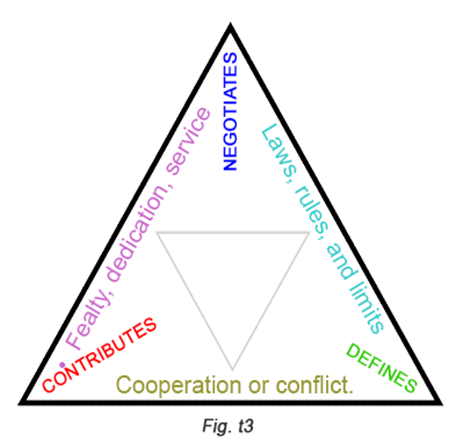
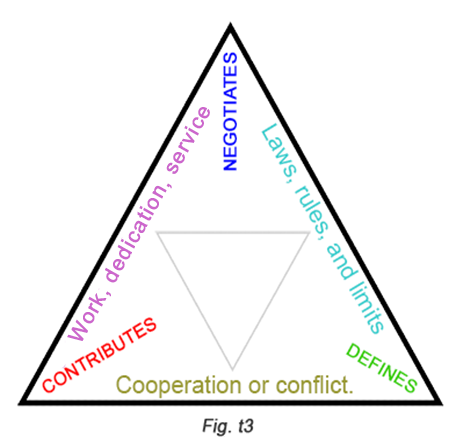
mv fealty to work, added 7-times map

Changed region(s): [[0.1197, 0.409, 0.359, 0.7888], [0.359, 0.2337, 0.4487, 0.409], [0.1197, 0.818, 0.1496, 0.8472]]

diff --git a/docs/_layouts/default.html b/docs/_layouts/default.html
@@ -36,7 +36,7 @@
           <li><a target="_blank" href="https://mega.nz/#F!NiBwjQiA!VYOo9TlGW9u060-V1LQ0_w">Download <strong>ePub</strong></a></li>
           <li><a target="_blank" href="https://mega.nz/#F!NiBwjQiA!VYOo9TlGW9u060-V1LQ0_w">Download <strong>HTML</strong></a></li>
         </ul>
-              current version: Thu 31 Oct 2019 01:21:01 AM EDT v.1.2.9
+              current version: Thu 31 Oct 2019 12:05:06 PM EDT v.1.3.0
 
 <!--
         ZIP and TAR downloads include 20+ megs of webpages, scripts, images and other material. 

diff --git a/Latest/THOLONIA_THE_BOOK.md b/Latest/THOLONIA_THE_BOOK.md
@@ -38,7 +38,7 @@
 
 
 
-DRAFT - Version Beta {!Thu 31 Oct 2019 01:21:01 AM EDT v.1.2.9}
+DRAFT - Version Beta {!Thu 31 Oct 2019 12:05:06 PM EDT v.1.3.0}
 
 Tholonia: The Existential Mechanics of Awareness
 Copyright © 2019 Duncan Stroud
@@ -1392,7 +1392,7 @@ Tholograms
 
 ### Geometry II
 
-<img src="../Images/056-NDCpoints.png" style="float:right;width:2.54583in;height:2.34167in" />Let's take these three relationship attributes of **C**ontributes, **N**egotiates, and **D**efines (which we'll shorten to just C, N, and D) and map them to the three points of a trigram.
+<img src="../Images/056-NDCpoints.png" style="float:right;width:2.54583in;height:2.34167in" />Let's take these three relationship attributes of **C**ontributes, **N**egotiates, and **D**efines (which we'll shorten to just C, N, and D) and map them to the three points of a trigram.  One point to add here is that the word *negotiate* is synonymous with *achieving a balance*.  We could even replace the word *negotiate* with *balance* but *negotiate* implies a process rather that a state, plus, the word *balance* has a lot of baggage in today’s culture that we’d prefer not to inherit, so *negotiate* is a better word.
 
 How do we know what attribute maps to what point? Further on we will show a more complete argument, but for now we can simply say if we have a parent, a child and a peer, as we do in both the holarchy and thologram, the parent would be the 1<sup>st</sup> point, the child the 2<sup>nd</sup> point, and the peer the 3<sup>rd</sup> point, as shown in the figure on the right.
 
@@ -1432,7 +1432,7 @@ To further illustrate this point, we can use the semantic example above where we
 
 #### **Claim 46:** Relationships define the function and purpose of any instance
 
-Now that we have mapped the three properties of N, C, and D onto a trigram we can see and label a new class of attributes that are the result of these properties interacting with each other. For example, what would we expect to see across a spectrum that is defined at one end as Negotiation, and at the opposite end, Definition (the line from N to D )? In the context of human interactions (just to keep it simple and clear), this pretty much describes how we agree on laws, rules, and limits. Across the spectrum of Definition and Contributions (D-C line), we would see how existing systems and new systems get along with each other, which would be some form of cooperation or conflict. On the spectrum of Contribution and Negotiation (C-D line), we would see some sort of value returned to the society or culture, perhaps in the forms of fealty, dedication, or service (*Fig. t3*).
+Now that we have mapped the three properties of N, C, and D onto a trigram we can see and label a new class of attributes that are the result of these properties interacting with each other. For example, what would we expect to see across a spectrum that is defined at one end as Negotiation, and at the opposite end, Definition (the line from N to D )? In the context of human interactions (just to keep it simple and clear), this pretty much describes how we agree on laws, rules, and limits. Across the spectrum of Definition and Contributions (D-C line), we would see how existing systems and new systems get along with each other, which would be some form of cooperation or conflict. On the spectrum of Contribution and Negotiation (C-D line), we would see some sort of value returned to the society or culture, perhaps in the forms of work, dedication, or service (*Fig. t3*).
 
 <center><img src="../Images/058-interrules.png" style="width:40%" /></center>
 For the purposes of demonstration, we'll use more human context ideas going forward, but keep in mind these are just a few archetypal examples out of many, and only limited to one context. 
@@ -1441,7 +1441,7 @@ For the purposes of demonstration, we'll use more human context ideas going forw
 
 -   **Cooperation of conflict** resulting from *Definition and Contribution*.
 
--   **Fealty, dedication, service** resulting from *Contribution and Negotiation*.
+-   **Work, dedication, service** resulting from *Contribution and Negotiation*.
 
 This trigram of relationships are present in every instance of creations and will be expressed according to the context and scope of its instantiation.   The example above uses concepts that are relevant to the human experience and which we have a functional and practical understanding of working idea of; such as *laws* (as in civil laws), *service* and *cooperation*.   In another context, such as the atomic world, *laws* would refer to the limits that an atom must exist within. *Cooperation/conflict* would describe how the atom’s negative and positive forces work with, and against, each other, or perhaps how atoms fuse (unify, as in nuclear fusion) and fiss (as in nuclear fission, and yes, I just made up the word “fiss”, from the Latin *fissio*, meaning "a breaking up”). *Dedication* describes the aspects of an atom that enhances the ability or properties of the of its parent tholon, or the realm from which it was created, which in the tholonic view would be the realm of subatomic particles, such as electron protons and neutrons.  What would subatomic particles be without atom’s?  What would atoms be without molecules? What would organelles (specialized structures within a living cell) be without molecules… and up the chain it goes.  In another direction of this same concepts, but perhaps more along the *service* idea, this might be seen in the way atoms enable electrons to move a charge very easily and very fast, or how atoms act as a sea of electrons that can be called upon at any moment to accept or donate electrons… a service we use and see everyday in the form of the electrical “ground”, that third pin on every electrical outlet.
 
@@ -2914,50 +2914,60 @@ Equating the ***upper trigram*** to the three attributes of N, D, C
 
 Let’s run another test so see if the thologram and the I-Ching are two views of the same model.
 
-Previously we assigned the positions of the points as 1,2,3,4,5,6 in order to work with the positions of the lines.  Now we need to work with the hexagrams and their values so we need to use the position of the point as the exponential value of 2 (‘cause we’re working in binary), and we now need to start counting at 0, not 1.  In *Fig. e1* you can see the values arrived at for each point, and the exponent used to get that value.
+<center><img style="text-align:center;width:100%" src="../Images/tritest.png" /></center>
+Previously we assigned the positions of the points as 1,2,3,4,5,6 in order to work with the positions of the lines.  Now we need to work with the hexagrams and their values so we need to use the position of the point as the exponential value of 2 (‘cause we’re working in binary), and to do that we need need to start counting at 0, not 1.  In *Fig. e1* you can see the values arrived at for each point, and the exponent used to get that value.
 
 *Fig. e2* shows the sum of these values for each trigram and each side. 
 
 In *Fig e3* we have added the name and the hexagram.  Don’t forget that all these numbers are binary, and not the number as they appear in the traditional I-Ching layout.
 
-The most obvious detail is shown in *Fig. e4a, e4b, and e4c,* and it’s quite impressive
+For clarity’s sake (even though it may only make things more obtuse), I’ve assigned variable names to each property to make the patterns easier to notate and read.
+
+<center><img style="text-align:center;width:100%" src="../Images/trialgebra.png" /></center>
+Here are detail worth noting:
+
+- Comparing the three vectors of the trigram to their I-Ching equivalents we see amazingly similar values:
+
+
+| Tholonic (outer)                                             |                                                              | I-Ching                                                      |
+| ------------------------------------------------------------ | ------------------------------------------------------------ | ------------------------------------------------------------ |
+| The vector from *Negotiation* to *Definitions* is ***Laws, rules and limits.*** | <img src="../Images/dot-blue.png" style="width:50px"/><img src="../Images/dot-green.png" style="width:50px"/> | *Decrease*: Restrictions in outer resources requires one to discover and develop inner resources. |
+| The vector from *Definition* to *Contribution* is ***Cooperation or conflict.*** | <img src="../Images/dot-red.png" style="width:50px"/><img src="../Images/dot-green.png" style="width:50px"/> | *Duration*: The self-renewing movement of an organized, firmly integrated whole is what allows all things to endure and is the secret to understanding the nature of all beings in heaven and on earth. |
+| The vector from *Contribution* to *Negotiation* is ***work, dedication, service*** | <img src="../Images/dot-green.png" style="width:50px"/><img src="../Images/dot-blue.png" style="width:50px"/> | *After Completion:* In this time of harmonious transformation, indifference to one's obligation and responsibility will lead to decay. |
+
+
 
 - The sum of any trigram and the side opposite that trigram always equal 63, the maximum number possible.  This was exciting to discover as it supports the tholonic claim that the effect of any point can be seen on the side opposite that point.
 
-- What I was not expecting to see is the math pattern of the tholon also works!  For example, 14 + 21 = 35.
+- What I was not expecting to see is the math pattern of the tholon also works!  For example, 14 + 21 = 35, or **H + S = P**
 
-- What about the middle trigram?  It does not have any other value to pair with.  Not only is there no room for its pair, it would need to be the value of 7.  However, the value of 7 does exist of we sum the three point id 1, 2 and 4, which would be the point that creates the ‘white dot’ of the tetrahedron, and it also is exactly opposite the center trigram of ‘Stagnation.’  The validity of the ‘white point’ being created by the sum of the red, green and blue dots is supported here.
+- What about the middle trigram?  It does not have any other value to pair with.  Not only is there no room for its pair, it would need to be the value of 7.  However, the value of 7 does exist of we sum the three points of the parents trigrams, which are 1, 2 and 4, (2^0^, 2^1^, 2^2^).  These are the points that creates the ‘white dot’ of the tetrahedron, and it also is exactly opposite the center trigram of **T~0~**,‘Stagnation.’  This math validated the ‘white point’ being created by the sum of the red, green and blue dot.
 
   Just as an interesting aside,. the hexagram that is binary value 7 is “Peace”, <img src="/home/jw/sites/the-book/Images/hexagram11.png" style="width:30px"/>which is defined as “heaven on earth” in the text, which is pretty compatible with the concept of the tetrahedron being the first physical (earth) formation of a purely abstract and archetypal (heaven) idea of the triangle.
 
 - We have a number of other patterns, for example 
 
-  - Stagnation (56)  - Before Completion (42) = Duration (14)
-  - Stagnation (56)  - Duration (14) = Before Completion (42) 
-  - Stagnation (56)  - Increase (49) = Peace (7)
-  - Stagnation (56) + Increase (49) = Before Completion (42) (after lowering the number by one octave; 105 - 63)
-  - Stagnation (56) + Before Completion (42) = Decrease (35) 
-  - Stagnation (56) + Duration (14) = Peace (7)
-  - After Completion (21) + Peace (7) = Wooing (28)
-  - After Completion (21) - Peace (7) = Duration (14) 
-  - (Decrease 49 - After Completion 21) + Increase 49 = (Stagnation 56 + Peace 7) 
-  - The opposite of Stagnation (56) is the ‘white dot’ hexagram of Peace (7)
+  - **T~0~ - T~3~ = H** ; *Stagnation (56)  - Before Completion (42) = Duration (14)*, ergo, **T~0~ - H = T~3~** , **T~3~ + H = T~0~**
+  - **T~0~ - T~1~ = W** ; *Stagnation (56)  - Increase (49) = Peace (7)*, ergo, **T~0~ - W = T~1~**,  **T~1~ + W = T~0~**
+  - **T~0~ + T~3~ = P** ; *Stagnation (56) + Before Completion (42) = Decrease (35)* , ergo **P - T~3~ = T~0~**, **P - T~0~ = T~3~**
+  - **T~0~ + T~1~ = T~3~** ; *Stagnation (56) + Increase (49) = Before Completion (42) (after lowering  one octave; 105 - 63)*, ergo **T~3~ - T~1~ = T~0~, T~3~ - T~0~ = T~1~**
+  - **T~0~ + H = W**  ; *Stagnation (56) + Duration (14) = Peace (7)*. ergo **W - H = T~0~, W - T~0~ = H**
+  - **S + W = T~2~** ; *After Completion (21) + Peace (7) = Wooing (28)*, ergo  **T~2~ - S = W, T~2~ - W = S**
+  - **S - W = H** ; *After Completion (21) - Peace (7) = Duration (14)*, ergo **W + H = S, S - H = W**
+  - **(P - S) + T~1~ = (T~0~ + W)** ; *(Decrease 35 - After Completion 21) + Increase 49 = (Stagnation 56 + Peace 7)* 
   - Every number (14, 21, 28, 35, 42, 49, 56, 63, 70) is a product of the ‘white dot’, which as a value of 7 (7x2,7x3, 7x4, 7x5, 7x6, 7x7, 7x8, 7x9, 7x10)
-  - Ever hexagram as an equal number of yin and yang lines
-  - the sum of all the side (70) = the ‘white dot’ (7) = 63, the maximum value and the value every pair equals to.
+  - Ever hexagram as an equal number of yin and yang lines (10 of the 32 pairs of  hexagrams have an equal number of yin and yang)
+  - The sum of all the sides (70) minus the ‘white dot’ (7) = 63.  63 is the number of balance for this pattern.  Does this suggest that as as a 2D map the value of the tholon is different that when it is ai tetrahedron?”63, but as a tetrahedron it is 70
   - Only the numbers of the top trigram, which is the originating trigram, are odd.
   - There are many more patterns and relationships as well, and this is only within one tholon that has no parents or children!
 
 Given that ever number has a patterned relationship with one of more numbers, we can reverse engineer where every hexagram sits in the thologram, meaning, we can assign a unique binary value to every vector (or point, but we are only showing vectors here).  Remember the chapter that hypothesized how if each tholon had a unique binary value then we could unfold the history of that tholon from the moment of creation to the present? Using the I-Ching as a super-finite set of unique binary numbers, we just demonstrated this.
 
-
-
-<center><img style="text-align:center;width:100%" src="../Images/tritest.png" /></center>
 I think it is quite obvious and provable that the I-Ching and the thologram are based on the same model.  Given that the Kabbalah and the I-Ching are also based on the same model (which I will not elaborate on here as it is way too long), we can say that there is an underlying model that many perspectives are based on.
 
 I do not doubt that the thologram could be used as a tool for divination, mysticism, magic, alchemy as much as it could for chemistry, physics, electronics, and many other applications.  Any truth that exists can be found in many different instances, and its truth is just as valid on one context as another.  The only limitation is the creative imagination of the perceiver.
 
-
+<center><img style="text-align:center;width:100%" src="../Images/times7.png" /></center>
 
 
 

diff --git a/README.md b/README.md
@@ -1,7 +1,7 @@
 
 see <https://tholonia.github.io/the-book/>
 
-DRAFT - Version Alpha {!Thu 31 Oct 2019 01:21:01 AM EDT v.1.2.9}
+DRAFT - Version Alpha {!Thu 31 Oct 2019 12:05:06 PM EDT v.1.3.0}
 
 Tholonia: The Existential Mechanics of Awareness
 Copyright © 2019 Duncan Stroud
